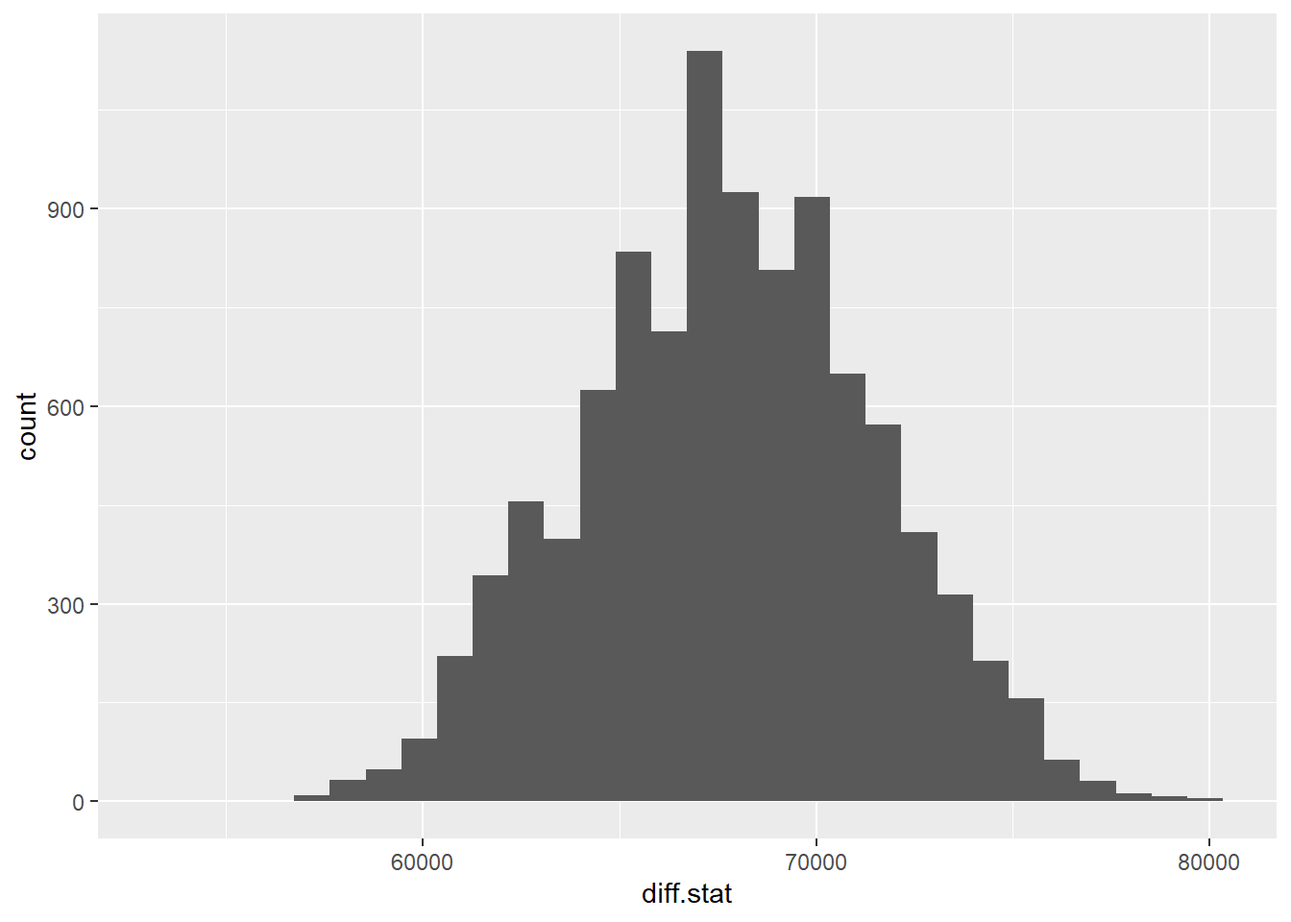
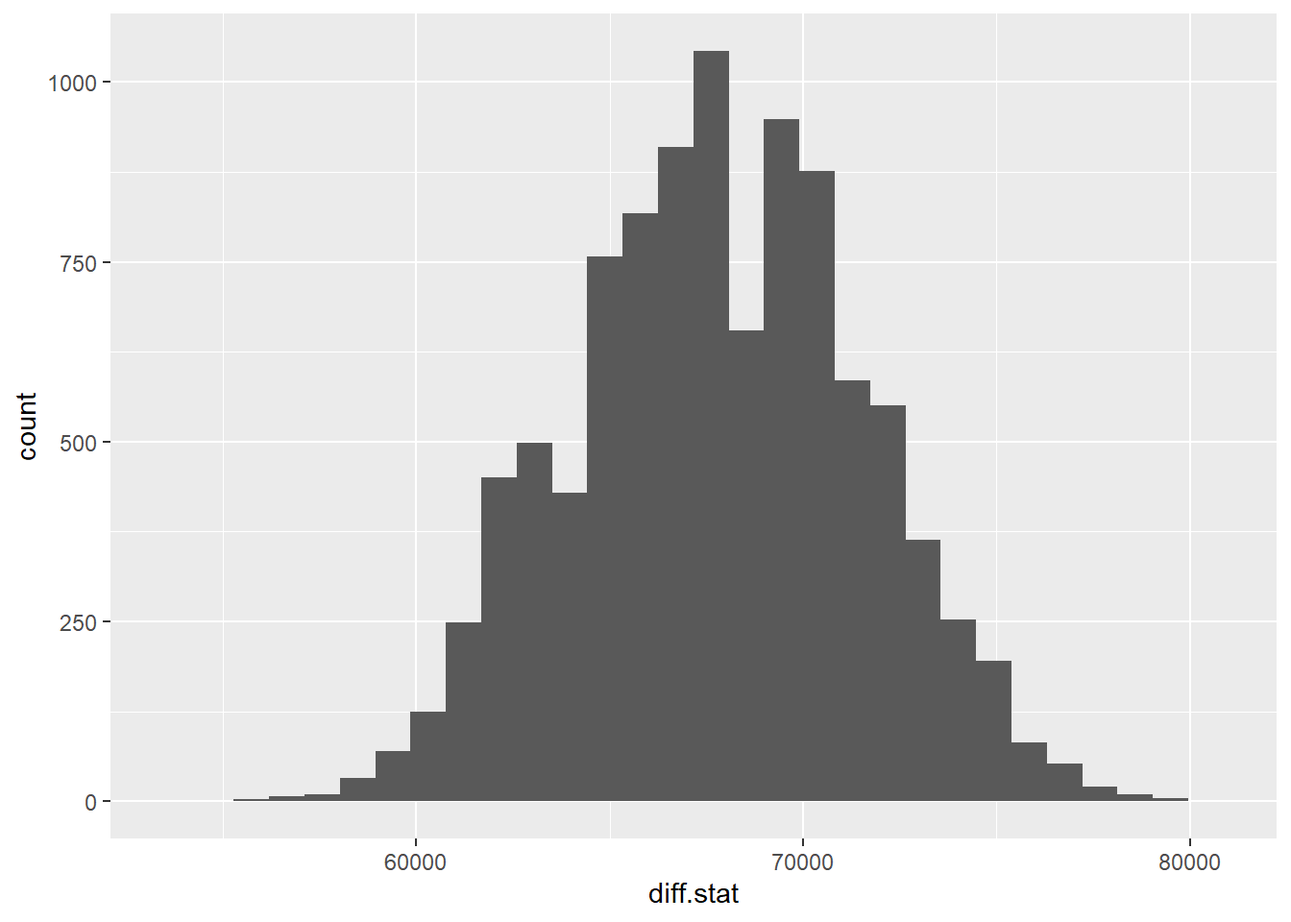
Bootstrap python update 2

diff --git a/docs/introduction.html b/docs/introduction.html
@@ -264,12 +264,12 @@ code span.wa { color: #60a0b0; font-weight: bold; font-style: italic; } /* Warni
 <span id="cb5-8"><a href="introduction.html#cb5-8" tabindex="-1"></a>  boot.med[i]<span class="ot">=</span><span class="fu">median</span>(boot.samp)</span>
 <span id="cb5-9"><a href="introduction.html#cb5-9" tabindex="-1"></a>}</span>
 <span id="cb5-10"><a href="introduction.html#cb5-10" tabindex="-1"></a><span class="fu">sd</span>(boot.med)</span>
-<span id="cb5-11"><a href="introduction.html#cb5-11" tabindex="-1"></a><span class="do">## [1] 1.327341</span></span>
+<span id="cb5-11"><a href="introduction.html#cb5-11" tabindex="-1"></a><span class="do">## [1] 1.355891</span></span>
 <span id="cb5-12"><a href="introduction.html#cb5-12" tabindex="-1"></a>act.med</span>
 <span id="cb5-13"><a href="introduction.html#cb5-13" tabindex="-1"></a><span class="do">## [1] 335.17</span></span>
 <span id="cb5-14"><a href="introduction.html#cb5-14" tabindex="-1"></a><span class="fu">quantile</span>(boot.med,<span class="at">probs =</span> <span class="fu">c</span>(<span class="fl">0.025</span>,<span class="fl">0.975</span>))</span>
-<span id="cb5-15"><a href="introduction.html#cb5-15" tabindex="-1"></a><span class="do">##   2.5%  97.5% </span></span>
-<span id="cb5-16"><a href="introduction.html#cb5-16" tabindex="-1"></a><span class="do">## 332.75 337.79</span></span>
+<span id="cb5-15"><a href="introduction.html#cb5-15" tabindex="-1"></a><span class="do">##    2.5%   97.5% </span></span>
+<span id="cb5-16"><a href="introduction.html#cb5-16" tabindex="-1"></a><span class="do">## 332.675 337.800</span></span>
 <span id="cb5-17"><a href="introduction.html#cb5-17" tabindex="-1"></a><span class="fu">ggplot</span>(<span class="at">data=</span><span class="fu">data.frame</span>(boot.med),<span class="fu">aes</span>(<span class="at">x=</span>boot.med))<span class="sc">+</span><span class="fu">geom_histogram</span>() <span class="sc">+</span> <span class="fu">labs</span>(<span class="at">x=</span><span class="st">&quot;Bootstrap Sample&quot;</span>,<span class="at">y=</span><span class="st">&quot;Frequency&quot;</span>)</span>
 <span id="cb5-18"><a href="introduction.html#cb5-18" tabindex="-1"></a><span class="do">## `stat_bin()` using `bins = 30`. Pick better value with `binwidth`.</span></span></code></pre></div>
 <p><img src="bookdownproj_files/figure-html/bootstrap%20confidence%20interval-3.png" width="672" />
@@ -291,18 +291,19 @@ The second example is exploring if the median price of homes in Iowa with air co
 <pre><code>## `stat_bin()` using `bins = 30`. Pick better value with `binwidth`.</code></pre>
 <p><img src="bookdownproj_files/figure-html/bootstrap%20hypothesis%20test-1.png" width="672" /></p>
 <div class="sourceCode" id="cb8"><pre class="sourceCode r"><code class="sourceCode r"><span id="cb8-1"><a href="introduction.html#cb8-1" tabindex="-1"></a><span class="fu">quantile</span>(diff.stat,<span class="at">probs =</span> <span class="fu">c</span>(<span class="fl">0.005</span>,<span class="fl">0.995</span>))</span></code></pre></div>
-<pre><code>##     0.5%    99.5% 
-## 58744.78 76840.30</code></pre>
+<pre><code>##    0.5%   99.5% 
+## 58875.0 76865.5</code></pre>
 <p>Since the confidence interval does NOT include 0, we would conclude that the medians appear to be significantly different.</p>
 <div id="python-for-bootstrapping" class="section level3 hasAnchor" number="2.1.1">
 <h3><span class="header-section-number">2.1.1</span> Python for Bootstrapping<a href="introduction.html#python-for-bootstrapping" class="anchor-section" aria-label="Anchor link to header"></a></h3>
 <div class="sourceCode" id="cb10"><pre class="sourceCode python"><code class="sourceCode python"><span id="cb10-1"><a href="introduction.html#cb10-1" tabindex="-1"></a><span class="im">from</span> matplotlib <span class="im">import</span> pyplot <span class="im">as</span> plt</span>
 <span id="cb10-2"><a href="introduction.html#cb10-2" tabindex="-1"></a><span class="im">import</span> numpy <span class="im">as</span> np</span>
-<span id="cb10-3"><a href="introduction.html#cb10-3" tabindex="-1"></a><span class="im">import</span> statistics</span>
-<span id="cb10-4"><a href="introduction.html#cb10-4" tabindex="-1"></a><span class="im">from</span> numpy <span class="im">import</span> random</span>
-<span id="cb10-5"><a href="introduction.html#cb10-5" tabindex="-1"></a></span>
-<span id="cb10-6"><a href="introduction.html#cb10-6" tabindex="-1"></a>co2_py <span class="op">=</span> r.co2</span>
-<span id="cb10-7"><a href="introduction.html#cb10-7" tabindex="-1"></a>plt.hist(co2_py)</span></code></pre></div>
+<span id="cb10-3"><a href="introduction.html#cb10-3" tabindex="-1"></a><span class="im">import</span> pandas <span class="im">as</span> pd</span>
+<span id="cb10-4"><a href="introduction.html#cb10-4" tabindex="-1"></a><span class="im">import</span> statistics</span>
+<span id="cb10-5"><a href="introduction.html#cb10-5" tabindex="-1"></a><span class="im">from</span> numpy <span class="im">import</span> random</span>
+<span id="cb10-6"><a href="introduction.html#cb10-6" tabindex="-1"></a></span>
+<span id="cb10-7"><a href="introduction.html#cb10-7" tabindex="-1"></a>co2_py <span class="op">=</span> r.co2</span>
+<span id="cb10-8"><a href="introduction.html#cb10-8" tabindex="-1"></a>plt.hist(co2_py)</span></code></pre></div>
 <pre><code>## (array([50., 73., 58., 48., 44., 42., 37., 51., 40., 25.]), array([313.18 , 318.546, 323.912, 329.278, 334.644, 340.01 , 345.376,
 ##        350.742, 356.108, 361.474, 366.84 ]), &lt;BarContainer object of 10 artists&gt;)</code></pre>
 <div class="sourceCode" id="cb12"><pre class="sourceCode python"><code class="sourceCode python"><span id="cb12-1"><a href="introduction.html#cb12-1" tabindex="-1"></a>plt.show()</span>
@@ -315,29 +316,55 @@ The second example is exploring if the median price of homes in Iowa with air co
 <pre><code>## 335.17</code></pre>
 <div class="sourceCode" id="cb15"><pre class="sourceCode python"><code class="sourceCode python"><span id="cb15-1"><a href="introduction.html#cb15-1" tabindex="-1"></a>n <span class="op">=</span> <span class="bu">len</span>(co2_py)</span>
 <span id="cb15-2"><a href="introduction.html#cb15-2" tabindex="-1"></a>temp <span class="op">=</span> []</span>
-<span id="cb15-3"><a href="introduction.html#cb15-3" tabindex="-1"></a><span class="cf">for</span> i <span class="kw">in</span> <span class="bu">range</span>(<span class="dv">1000</span>):</span>
+<span id="cb15-3"><a href="introduction.html#cb15-3" tabindex="-1"></a><span class="cf">for</span> i <span class="kw">in</span> <span class="bu">range</span>(<span class="dv">10000</span>):</span>
 <span id="cb15-4"><a href="introduction.html#cb15-4" tabindex="-1"></a>  temp.append(statistics.median(random.choice(co2_py,n)))</span>
 <span id="cb15-5"><a href="introduction.html#cb15-5" tabindex="-1"></a><span class="co">#temp =statistics.median(random.choice(co2_py,n))</span></span>
 <span id="cb15-6"><a href="introduction.html#cb15-6" tabindex="-1"></a></span>
 <span id="cb15-7"><a href="introduction.html#cb15-7" tabindex="-1"></a><span class="bu">print</span>(statistics.stdev(temp))</span></code></pre></div>
-<pre><code>## 1.3351758780776406</code></pre>
+<pre><code>## 1.3630486884365889</code></pre>
 <div class="sourceCode" id="cb17"><pre class="sourceCode python"><code class="sourceCode python"><span id="cb17-1"><a href="introduction.html#cb17-1" tabindex="-1"></a><span class="bu">print</span>(<span class="st">&quot;Lower 95</span><span class="sc">% c</span><span class="st">onfidence interval for median&quot;</span>,np.quantile(temp,<span class="fl">0.025</span>))</span></code></pre></div>
-<pre><code>## Lower 95% confidence interval for median 332.75</code></pre>
+<pre><code>## Lower 95% confidence interval for median 332.675</code></pre>
 <div class="sourceCode" id="cb19"><pre class="sourceCode python"><code class="sourceCode python"><span id="cb19-1"><a href="introduction.html#cb19-1" tabindex="-1"></a><span class="bu">print</span>(<span class="st">&quot;Upper 95</span><span class="sc">% c</span><span class="st">onfidence interval for median&quot;</span>,np.quantile(temp,<span class="fl">0.975</span>))</span></code></pre></div>
-<pre><code>## Upper 95% confidence interval for median 337.79</code></pre>
+<pre><code>## Upper 95% confidence interval for median 337.815</code></pre>
+<div class="sourceCode" id="cb21"><pre class="sourceCode python"><code class="sourceCode python"><span id="cb21-1"><a href="introduction.html#cb21-1" tabindex="-1"></a>plt.hist(temp)</span></code></pre></div>
+<pre><code>## (array([2.000e+00, 4.900e+01, 6.030e+02, 1.719e+03, 2.841e+03, 2.393e+03,
+##        1.653e+03, 6.830e+02, 5.100e+01, 6.000e+00]), array([330.14 , 331.186, 332.232, 333.278, 334.324, 335.37 , 336.416,
+##        337.462, 338.508, 339.554, 340.6  ]), &lt;BarContainer object of 10 artists&gt;)</code></pre>
+<div class="sourceCode" id="cb23"><pre class="sourceCode python"><code class="sourceCode python"><span id="cb23-1"><a href="introduction.html#cb23-1" tabindex="-1"></a>plt.show()</span></code></pre></div>
+<p><img src="bookdownproj_files/figure-html/unnamed-chunk-1-2.png" width="672" /></p>
+<div class="sourceCode" id="cb24"><pre class="sourceCode python"><code class="sourceCode python"><span id="cb24-1"><a href="introduction.html#cb24-1" tabindex="-1"></a>ames_py<span class="op">=</span>r.ames</span>
+<span id="cb24-2"><a href="introduction.html#cb24-2" tabindex="-1"></a><span class="bu">type</span>(ames_py)</span></code></pre></div>
+<pre><code>## &lt;class &#39;pandas.core.frame.DataFrame&#39;&gt;</code></pre>
+<div class="sourceCode" id="cb26"><pre class="sourceCode python"><code class="sourceCode python"><span id="cb26-1"><a href="introduction.html#cb26-1" tabindex="-1"></a>yes<span class="op">=</span>ames_py[ames_py[<span class="st">&quot;Central_Air&quot;</span>]<span class="op">==</span><span class="st">&quot;Y&quot;</span>]</span>
+<span id="cb26-2"><a href="introduction.html#cb26-2" tabindex="-1"></a>no<span class="op">=</span>ames_py[ames_py[<span class="st">&quot;Central_Air&quot;</span>]<span class="op">==</span><span class="st">&quot;N&quot;</span>]</span>
+<span id="cb26-3"><a href="introduction.html#cb26-3" tabindex="-1"></a></span>
+<span id="cb26-4"><a href="introduction.html#cb26-4" tabindex="-1"></a>diff_sale<span class="op">=</span>[]</span>
+<span id="cb26-5"><a href="introduction.html#cb26-5" tabindex="-1"></a>n<span class="op">=</span><span class="dv">2930</span></span>
+<span id="cb26-6"><a href="introduction.html#cb26-6" tabindex="-1"></a><span class="cf">for</span> i <span class="kw">in</span> <span class="bu">range</span>(<span class="dv">10000</span>):</span>
+<span id="cb26-7"><a href="introduction.html#cb26-7" tabindex="-1"></a>  yes_boot<span class="op">=</span>statistics.median(random.choice(yes[<span class="st">&quot;Sale_Price&quot;</span>],n))</span>
+<span id="cb26-8"><a href="introduction.html#cb26-8" tabindex="-1"></a>  no_boot<span class="op">=</span>statistics.median(random.choice(no[<span class="st">&quot;Sale_Price&quot;</span>],n))</span>
+<span id="cb26-9"><a href="introduction.html#cb26-9" tabindex="-1"></a>  diff_temp<span class="op">=</span>yes_boot<span class="op">-</span>no_boot</span>
+<span id="cb26-10"><a href="introduction.html#cb26-10" tabindex="-1"></a>  diff_sale.append(diff_temp)</span>
+<span id="cb26-11"><a href="introduction.html#cb26-11" tabindex="-1"></a>  </span>
+<span id="cb26-12"><a href="introduction.html#cb26-12" tabindex="-1"></a>plt.hist(diff_sale)</span></code></pre></div>
+<pre><code>## (array([   9.,   70.,  277., 1446., 2555., 2297., 2337.,  736.,  250.,
+##          23.]), array([60500., 61900., 63300., 64700., 66100., 67500., 68900., 70300.,
+##        71700., 73100., 74500.]), &lt;BarContainer object of 10 artists&gt;)</code></pre>
+<div class="sourceCode" id="cb28"><pre class="sourceCode python"><code class="sourceCode python"><span id="cb28-1"><a href="introduction.html#cb28-1" tabindex="-1"></a>plt.show()</span></code></pre></div>
+<p><img src="bookdownproj_files/figure-html/unnamed-chunk-1-3.png" width="672" /></p>
 </div>
 </div>
 <div id="adjusting-p-values" class="section level2 hasAnchor" number="2.2">
 <h2><span class="header-section-number">2.2</span> Adjusting p-values<a href="introduction.html#adjusting-p-values" class="anchor-section" aria-label="Anchor link to header"></a></h2>
 <p>The package p.adjust will do the Bonferroni adjustment, Benjamini &amp; Hochberg and many other adjustments for p-values when you are conducting a lot of tests! All you need to do is send it a vector of p-values and it will return the adjusted p-values!</p>
-<div class="sourceCode" id="cb21"><pre class="sourceCode r"><code class="sourceCode r"><span id="cb21-1"><a href="introduction.html#cb21-1" tabindex="-1"></a></span>
-<span id="cb21-2"><a href="introduction.html#cb21-2" tabindex="-1"></a>temp<span class="ot">=</span><span class="fu">c</span>(<span class="fl">0.001</span>,<span class="fl">0.03</span>,<span class="fl">0.2</span>,<span class="fl">0.4</span>)</span>
-<span id="cb21-3"><a href="introduction.html#cb21-3" tabindex="-1"></a><span class="co">#Bonferoni</span></span>
-<span id="cb21-4"><a href="introduction.html#cb21-4" tabindex="-1"></a><span class="fu">p.adjust</span>(temp,<span class="at">method=</span><span class="st">&quot;bonferroni&quot;</span>)</span>
-<span id="cb21-5"><a href="introduction.html#cb21-5" tabindex="-1"></a><span class="do">## [1] 0.004 0.120 0.800 1.000</span></span>
-<span id="cb21-6"><a href="introduction.html#cb21-6" tabindex="-1"></a><span class="co">#Benjamini &amp; Hochberg</span></span>
-<span id="cb21-7"><a href="introduction.html#cb21-7" tabindex="-1"></a><span class="fu">p.adjust</span>(temp,<span class="at">method=</span><span class="st">&quot;BH&quot;</span>)</span>
-<span id="cb21-8"><a href="introduction.html#cb21-8" tabindex="-1"></a><span class="do">## [1] 0.0040000 0.0600000 0.2666667 0.4000000</span></span></code></pre></div>
+<div class="sourceCode" id="cb29"><pre class="sourceCode r"><code class="sourceCode r"><span id="cb29-1"><a href="introduction.html#cb29-1" tabindex="-1"></a></span>
+<span id="cb29-2"><a href="introduction.html#cb29-2" tabindex="-1"></a>temp<span class="ot">=</span><span class="fu">c</span>(<span class="fl">0.001</span>,<span class="fl">0.03</span>,<span class="fl">0.2</span>,<span class="fl">0.4</span>)</span>
+<span id="cb29-3"><a href="introduction.html#cb29-3" tabindex="-1"></a><span class="co">#Bonferoni</span></span>
+<span id="cb29-4"><a href="introduction.html#cb29-4" tabindex="-1"></a><span class="fu">p.adjust</span>(temp,<span class="at">method=</span><span class="st">&quot;bonferroni&quot;</span>)</span>
+<span id="cb29-5"><a href="introduction.html#cb29-5" tabindex="-1"></a><span class="do">## [1] 0.004 0.120 0.800 1.000</span></span>
+<span id="cb29-6"><a href="introduction.html#cb29-6" tabindex="-1"></a><span class="co">#Benjamini &amp; Hochberg</span></span>
+<span id="cb29-7"><a href="introduction.html#cb29-7" tabindex="-1"></a><span class="fu">p.adjust</span>(temp,<span class="at">method=</span><span class="st">&quot;BH&quot;</span>)</span>
+<span id="cb29-8"><a href="introduction.html#cb29-8" tabindex="-1"></a><span class="do">## [1] 0.0040000 0.0600000 0.2666667 0.4000000</span></span></code></pre></div>
 </div>
 <div id="transaction-data" class="section level2 hasAnchor" number="2.3">
 <h2><span class="header-section-number">2.3</span> Transaction data<a href="introduction.html#transaction-data" class="anchor-section" aria-label="Anchor link to header"></a></h2>
@@ -463,13 +490,13 @@ NA
 </tbody>
 </table>
 <p>Notice that there are four transactions for Person 1, four transactions for Person 2 (including a missing value) and three transactions for Person 3. We will need to “roll” these up into one observation per person.</p>
-<div class="sourceCode" id="cb22"><pre class="sourceCode r"><code class="sourceCode r"><span id="cb22-1"><a href="introduction.html#cb22-1" tabindex="-1"></a>new.check <span class="ot">=</span> check <span class="sc">%&gt;%</span> <span class="fu">group_by</span>(ID) <span class="sc">%&gt;%</span></span>
-<span id="cb22-2"><a href="introduction.html#cb22-2" tabindex="-1"></a>  <span class="fu">summarise</span>(<span class="at">mean.check=</span><span class="fu">mean</span>(Checking,<span class="at">na.rm=</span>T),<span class="at">std.check=</span><span class="fu">sd</span>(Checking,<span class="at">na.rm=</span>T))</span></code></pre></div>
+<div class="sourceCode" id="cb30"><pre class="sourceCode r"><code class="sourceCode r"><span id="cb30-1"><a href="introduction.html#cb30-1" tabindex="-1"></a>new.check <span class="ot">=</span> check <span class="sc">%&gt;%</span> <span class="fu">group_by</span>(ID) <span class="sc">%&gt;%</span></span>
+<span id="cb30-2"><a href="introduction.html#cb30-2" tabindex="-1"></a>  <span class="fu">summarise</span>(<span class="at">mean.check=</span><span class="fu">mean</span>(Checking,<span class="at">na.rm=</span>T),<span class="at">std.check=</span><span class="fu">sd</span>(Checking,<span class="at">na.rm=</span>T))</span></code></pre></div>
 <p>It is HIGHLY recommended that you ALWAYS create a flag for missing values (do this BEFORE rolling up). The following code creates the flag for the missing values and then rolls everything up:</p>
-<div class="sourceCode" id="cb23"><pre class="sourceCode r"><code class="sourceCode r"><span id="cb23-1"><a href="introduction.html#cb23-1" tabindex="-1"></a>check<span class="sc">$</span>flag<span class="ot">=</span><span class="fu">ifelse</span>(<span class="fu">is.na</span>(check<span class="sc">$</span>Checking),<span class="dv">1</span>,<span class="dv">0</span>)</span>
-<span id="cb23-2"><a href="introduction.html#cb23-2" tabindex="-1"></a></span>
-<span id="cb23-3"><a href="introduction.html#cb23-3" tabindex="-1"></a>new.check <span class="ot">=</span> check <span class="sc">%&gt;%</span> <span class="fu">group_by</span>(ID) <span class="sc">%&gt;%</span></span>
-<span id="cb23-4"><a href="introduction.html#cb23-4" tabindex="-1"></a>  <span class="fu">summarise</span>(<span class="at">mean.check=</span><span class="fu">mean</span>(Checking,<span class="at">na.rm=</span>T),<span class="at">std.check=</span><span class="fu">sd</span>(Checking,<span class="at">na.rm=</span>T),<span class="at">na.check=</span><span class="fu">sum</span>(flag))</span></code></pre></div>
+<div class="sourceCode" id="cb31"><pre class="sourceCode r"><code class="sourceCode r"><span id="cb31-1"><a href="introduction.html#cb31-1" tabindex="-1"></a>check<span class="sc">$</span>flag<span class="ot">=</span><span class="fu">ifelse</span>(<span class="fu">is.na</span>(check<span class="sc">$</span>Checking),<span class="dv">1</span>,<span class="dv">0</span>)</span>
+<span id="cb31-2"><a href="introduction.html#cb31-2" tabindex="-1"></a></span>
+<span id="cb31-3"><a href="introduction.html#cb31-3" tabindex="-1"></a>new.check <span class="ot">=</span> check <span class="sc">%&gt;%</span> <span class="fu">group_by</span>(ID) <span class="sc">%&gt;%</span></span>
+<span id="cb31-4"><a href="introduction.html#cb31-4" tabindex="-1"></a>  <span class="fu">summarise</span>(<span class="at">mean.check=</span><span class="fu">mean</span>(Checking,<span class="at">na.rm=</span>T),<span class="at">std.check=</span><span class="fu">sd</span>(Checking,<span class="at">na.rm=</span>T),<span class="at">na.check=</span><span class="fu">sum</span>(flag))</span></code></pre></div>
 <table class=" lightable-paper lightable-striped" style="font-family: &quot;Arial Narrow&quot;, arial, helvetica, sans-serif; width: auto !important; margin-left: auto; margin-right: auto;">
 <caption>
 <span id="tab:unnamed-chunk-3">Table 2.2: </span>Rolled up
@@ -666,8 +693,8 @@ bread
 </tbody>
 </table>
 <p>As you can see, there is a separate line for each item. If we want to analyze this data set with the package ‘arules’, we need the data to be wide (not long). In other words, one line per ID. We can create the wide data set in R by using the following line (and then “inspect” it or view it).</p>
-<div class="sourceCode" id="cb24"><pre class="sourceCode r"><code class="sourceCode r"><span id="cb24-1"><a href="introduction.html#cb24-1" tabindex="-1"></a>trans.dat <span class="ot">&lt;-</span> <span class="fu">as</span>(<span class="fu">split</span>(temp.dat<span class="sc">$</span>Grocery, temp.dat<span class="sc">$</span>ID), <span class="st">&quot;transactions&quot;</span>)</span>
-<span id="cb24-2"><a href="introduction.html#cb24-2" tabindex="-1"></a><span class="fu">inspect</span>(trans.dat)</span></code></pre></div>
+<div class="sourceCode" id="cb32"><pre class="sourceCode r"><code class="sourceCode r"><span id="cb32-1"><a href="introduction.html#cb32-1" tabindex="-1"></a>trans.dat <span class="ot">&lt;-</span> <span class="fu">as</span>(<span class="fu">split</span>(temp.dat<span class="sc">$</span>Grocery, temp.dat<span class="sc">$</span>ID), <span class="st">&quot;transactions&quot;</span>)</span>
+<span id="cb32-2"><a href="introduction.html#cb32-2" tabindex="-1"></a><span class="fu">inspect</span>(trans.dat)</span></code></pre></div>
 <pre><code>##      items                             transactionID
 ## [1]  {bread, egg, oat packet, papaya}  1            
 ## [2]  {bread, milk, oat packet, papaya} 2            
@@ -681,14 +708,14 @@ bread
 ## [10] {bread, milk, papaya}             10           
 ## [11] {egg, milk}                       11</code></pre>
 <p>The following code runs the association analysis and stores the results in the object rules. Once you have this stored object, you can view it and partition it in different ways..</p>
-<div class="sourceCode" id="cb26"><pre class="sourceCode r"><code class="sourceCode r"><span id="cb26-1"><a href="introduction.html#cb26-1" tabindex="-1"></a>trans.dat<span class="sc">@</span>itemInfo<span class="sc">$</span>labels</span></code></pre></div>
+<div class="sourceCode" id="cb34"><pre class="sourceCode r"><code class="sourceCode r"><span id="cb34-1"><a href="introduction.html#cb34-1" tabindex="-1"></a>trans.dat<span class="sc">@</span>itemInfo<span class="sc">$</span>labels</span></code></pre></div>
 <pre><code>## [1] &quot;bread&quot;      &quot;butter&quot;     &quot;egg&quot;        &quot;milk&quot;       &quot;oat packet&quot;
 ## [6] &quot;papaya&quot;</code></pre>
-<div class="sourceCode" id="cb28"><pre class="sourceCode r"><code class="sourceCode r"><span id="cb28-1"><a href="introduction.html#cb28-1" tabindex="-1"></a><span class="co"># Create an item frequency plot for the top 3 items</span></span>
-<span id="cb28-2"><a href="introduction.html#cb28-2" tabindex="-1"></a><span class="fu">itemFrequencyPlot</span>(trans.dat,<span class="at">topN=</span><span class="dv">3</span>,<span class="at">type=</span><span class="st">&quot;absolute&quot;</span>)</span></code></pre></div>
+<div class="sourceCode" id="cb36"><pre class="sourceCode r"><code class="sourceCode r"><span id="cb36-1"><a href="introduction.html#cb36-1" tabindex="-1"></a><span class="co"># Create an item frequency plot for the top 3 items</span></span>
+<span id="cb36-2"><a href="introduction.html#cb36-2" tabindex="-1"></a><span class="fu">itemFrequencyPlot</span>(trans.dat,<span class="at">topN=</span><span class="dv">3</span>,<span class="at">type=</span><span class="st">&quot;absolute&quot;</span>)</span></code></pre></div>
 <p><img src="bookdownproj_files/figure-html/association2-1.png" width="672" /></p>
-<div class="sourceCode" id="cb29"><pre class="sourceCode r"><code class="sourceCode r"><span id="cb29-1"><a href="introduction.html#cb29-1" tabindex="-1"></a><span class="co"># Get the rules</span></span>
-<span id="cb29-2"><a href="introduction.html#cb29-2" tabindex="-1"></a>rules <span class="ot">&lt;-</span> <span class="fu">apriori</span>(trans.dat, <span class="at">parameter =</span> <span class="fu">list</span>(<span class="at">supp =</span> <span class="fl">0.1</span>, <span class="at">conf =</span> <span class="fl">0.001</span>, <span class="at">target=</span><span class="st">&quot;rules&quot;</span>))</span></code></pre></div>
+<div class="sourceCode" id="cb37"><pre class="sourceCode r"><code class="sourceCode r"><span id="cb37-1"><a href="introduction.html#cb37-1" tabindex="-1"></a><span class="co"># Get the rules</span></span>
+<span id="cb37-2"><a href="introduction.html#cb37-2" tabindex="-1"></a>rules <span class="ot">&lt;-</span> <span class="fu">apriori</span>(trans.dat, <span class="at">parameter =</span> <span class="fu">list</span>(<span class="at">supp =</span> <span class="fl">0.1</span>, <span class="at">conf =</span> <span class="fl">0.001</span>, <span class="at">target=</span><span class="st">&quot;rules&quot;</span>))</span></code></pre></div>
 <pre><code>## Apriori
 ## 
 ## Parameter specification:
@@ -710,9 +737,9 @@ bread
 ## checking subsets of size 1 2 3 done [0.00s].
 ## writing ... [32 rule(s)] done [0.00s].
 ## creating S4 object  ... done [0.00s].</code></pre>
-<div class="sourceCode" id="cb31"><pre class="sourceCode r"><code class="sourceCode r"><span id="cb31-1"><a href="introduction.html#cb31-1" tabindex="-1"></a>rules<span class="ot">&lt;-</span><span class="fu">sort</span>(rules, <span class="at">by=</span><span class="st">&quot;confidence&quot;</span>, <span class="at">decreasing=</span><span class="cn">TRUE</span>)</span>
-<span id="cb31-2"><a href="introduction.html#cb31-2" tabindex="-1"></a></span>
-<span id="cb31-3"><a href="introduction.html#cb31-3" tabindex="-1"></a><span class="fu">inspect</span>(rules[<span class="dv">1</span><span class="sc">:</span><span class="dv">4</span>])</span></code></pre></div>
+<div class="sourceCode" id="cb39"><pre class="sourceCode r"><code class="sourceCode r"><span id="cb39-1"><a href="introduction.html#cb39-1" tabindex="-1"></a>rules<span class="ot">&lt;-</span><span class="fu">sort</span>(rules, <span class="at">by=</span><span class="st">&quot;confidence&quot;</span>, <span class="at">decreasing=</span><span class="cn">TRUE</span>)</span>
+<span id="cb39-2"><a href="introduction.html#cb39-2" tabindex="-1"></a></span>
+<span id="cb39-3"><a href="introduction.html#cb39-3" tabindex="-1"></a><span class="fu">inspect</span>(rules[<span class="dv">1</span><span class="sc">:</span><span class="dv">4</span>])</span></code></pre></div>
 <pre><code>##     lhs                    rhs      support   confidence coverage  lift    
 ## [1] {butter}            =&gt; {bread}  0.2727273 1.0000000  0.2727273 1.571429
 ## [2] {bread, oat packet} =&gt; {papaya} 0.1818182 1.0000000  0.1818182 1.833333
@@ -723,7 +750,7 @@ bread
 ## [2] 2    
 ## [3] 3    
 ## [4] 4</code></pre>
-<div class="sourceCode" id="cb33"><pre class="sourceCode r"><code class="sourceCode r"><span id="cb33-1"><a href="introduction.html#cb33-1" tabindex="-1"></a>oat.rules <span class="ot">=</span> <span class="fu">apriori</span>(trans.dat, <span class="at">parameter =</span> <span class="fu">list</span>(<span class="at">supp=</span><span class="fl">0.001</span>, <span class="at">conf=</span><span class="fl">0.8</span>),<span class="at">appearance =</span> <span class="fu">list</span>(<span class="at">default=</span><span class="st">&quot;lhs&quot;</span>,<span class="at">rhs=</span><span class="st">&quot;oat packet&quot;</span>))</span></code></pre></div>
+<div class="sourceCode" id="cb41"><pre class="sourceCode r"><code class="sourceCode r"><span id="cb41-1"><a href="introduction.html#cb41-1" tabindex="-1"></a>oat.rules <span class="ot">=</span> <span class="fu">apriori</span>(trans.dat, <span class="at">parameter =</span> <span class="fu">list</span>(<span class="at">supp=</span><span class="fl">0.001</span>, <span class="at">conf=</span><span class="fl">0.8</span>),<span class="at">appearance =</span> <span class="fu">list</span>(<span class="at">default=</span><span class="st">&quot;lhs&quot;</span>,<span class="at">rhs=</span><span class="st">&quot;oat packet&quot;</span>))</span></code></pre></div>
 <pre><code>## Apriori
 ## 
 ## Parameter specification:
@@ -745,7 +772,7 @@ bread
 ## checking subsets of size 1 2 3 4 done [0.00s].
 ## writing ... [2 rule(s)] done [0.00s].
 ## creating S4 object  ... done [0.00s].</code></pre>
-<div class="sourceCode" id="cb35"><pre class="sourceCode r"><code class="sourceCode r"><span id="cb35-1"><a href="introduction.html#cb35-1" tabindex="-1"></a>oat.rules2 <span class="ot">=</span> <span class="fu">apriori</span>(trans.dat, <span class="at">parameter =</span> <span class="fu">list</span>(<span class="at">supp=</span><span class="fl">0.001</span>, <span class="at">conf=</span><span class="fl">0.8</span>),<span class="at">appearance =</span> <span class="fu">list</span>(<span class="at">lhs=</span><span class="st">&quot;oat packet&quot;</span>, <span class="at">default=</span><span class="st">&quot;rhs&quot;</span>))</span></code></pre></div>
+<div class="sourceCode" id="cb43"><pre class="sourceCode r"><code class="sourceCode r"><span id="cb43-1"><a href="introduction.html#cb43-1" tabindex="-1"></a>oat.rules2 <span class="ot">=</span> <span class="fu">apriori</span>(trans.dat, <span class="at">parameter =</span> <span class="fu">list</span>(<span class="at">supp=</span><span class="fl">0.001</span>, <span class="at">conf=</span><span class="fl">0.8</span>),<span class="at">appearance =</span> <span class="fu">list</span>(<span class="at">lhs=</span><span class="st">&quot;oat packet&quot;</span>, <span class="at">default=</span><span class="st">&quot;rhs&quot;</span>))</span></code></pre></div>
 <pre><code>## Apriori
 ## 
 ## Parameter specification:
@@ -767,13 +794,13 @@ bread
 ## checking subsets of size 1 2 done [0.00s].
 ## writing ... [0 rule(s)] done [0.00s].
 ## creating S4 object  ... done [0.00s].</code></pre>
-<div class="sourceCode" id="cb37"><pre class="sourceCode r"><code class="sourceCode r"><span id="cb37-1"><a href="introduction.html#cb37-1" tabindex="-1"></a><span class="fu">plot</span>(rules)</span></code></pre></div>
+<div class="sourceCode" id="cb45"><pre class="sourceCode r"><code class="sourceCode r"><span id="cb45-1"><a href="introduction.html#cb45-1" tabindex="-1"></a><span class="fu">plot</span>(rules)</span></code></pre></div>
 <pre><code>## To reduce overplotting, jitter is added! Use jitter = 0 to prevent jitter.</code></pre>
 <p><img src="bookdownproj_files/figure-html/association2-2.png" width="672" /></p>
-<div class="sourceCode" id="cb39"><pre class="sourceCode r"><code class="sourceCode r"><span id="cb39-1"><a href="introduction.html#cb39-1" tabindex="-1"></a>top10rules <span class="ot">=</span> <span class="fu">head</span>(rules, <span class="at">n =</span> <span class="dv">10</span>, <span class="at">by =</span> <span class="st">&quot;confidence&quot;</span>)</span>
-<span id="cb39-2"><a href="introduction.html#cb39-2" tabindex="-1"></a><span class="fu">plot</span>(top10rules, <span class="at">method =</span> <span class="st">&quot;graph&quot;</span>,  <span class="at">engine =</span> <span class="st">&quot;htmlwidget&quot;</span>)</span></code></pre></div>
-<div class="visNetwork html-widget html-fill-item-overflow-hidden html-fill-item" id="htmlwidget-da826d24bee0824e4db4" style="width:672px;height:480px;"></div>
-<script type="application/json" data-for="htmlwidget-da826d24bee0824e4db4">{"x":{"nodes":{"id":[1,2,3,4,5,6,7,8,9,10,11,12,13,14,15,16],"label":["bread","butter","egg","milk","oat packet","papaya","rule 1","rule 2","rule 3","rule 4","rule 5","rule 6","rule 7","rule 8","rule 9","rule 10"],"group":[1,1,1,1,1,1,2,2,2,2,2,2,2,2,2,2],"value":[1,1,1,1,1,1,20.8,1,20.8,40.6,1,1,1,100,20.8,40.6],"color":["#CBD2FC","#CBD2FC","#CBD2FC","#CBD2FC","#CBD2FC","#CBD2FC","#EE6666","#EE1B1B","#EE9999","#EECBCB","#EECBCB","#EECBCB","#EEB1B1","#EED4D4","#EEDCDC","#EECBCB"],"title":["bread","butter","egg","milk","oat packet","papaya","<B>[1]<\/B><BR><B>{butter}<\/B><BR>&nbsp;&nbsp; => <B>{bread}<\/B><BR><BR>support = 0.273<BR>confidence = 1<BR>coverage = 0.273<BR>lift = 1.57<BR>count = 3<BR>order = 2<BR>id = 1","<B>[2]<\/B><BR><B>{bread,<BR>&nbsp;&nbsp;oat packet}<\/B><BR>&nbsp;&nbsp; => <B>{papaya}<\/B><BR><BR>support = 0.182<BR>confidence = 1<BR>coverage = 0.182<BR>lift = 1.83<BR>count = 2<BR>order = 3<BR>id = 2","<B>[3]<\/B><BR><B>{oat packet}<\/B><BR>&nbsp;&nbsp; => <B>{papaya}<\/B><BR><BR>support = 0.273<BR>confidence = 0.75<BR>coverage = 0.364<BR>lift = 1.38<BR>count = 3<BR>order = 2<BR>id = 3","<B>[4]<\/B><BR><B>{papaya}<\/B><BR>&nbsp;&nbsp; => <B>{bread}<\/B><BR><BR>support = 0.364<BR>confidence = 0.667<BR>coverage = 0.545<BR>lift = 1.05<BR>count = 4<BR>order = 2<BR>id = 4","<B>[5]<\/B><BR><B>{oat packet,<BR>&nbsp;&nbsp;papaya}<\/B><BR>&nbsp;&nbsp; => <B>{bread}<\/B><BR><BR>support = 0.182<BR>confidence = 0.667<BR>coverage = 0.273<BR>lift = 1.05<BR>count = 2<BR>order = 3<BR>id = 5","<B>[6]<\/B><BR><B>{milk,<BR>&nbsp;&nbsp;papaya}<\/B><BR>&nbsp;&nbsp; => <B>{bread}<\/B><BR><BR>support = 0.182<BR>confidence = 0.667<BR>coverage = 0.273<BR>lift = 1.05<BR>count = 2<BR>order = 3<BR>id = 6","<B>[7]<\/B><BR><B>{bread,<BR>&nbsp;&nbsp;milk}<\/B><BR>&nbsp;&nbsp; => <B>{papaya}<\/B><BR><BR>support = 0.182<BR>confidence = 0.667<BR>coverage = 0.273<BR>lift = 1.22<BR>count = 2<BR>order = 3<BR>id = 7","<B>[8]<\/B><BR><B>{}<\/B><BR>&nbsp;&nbsp; => <B>{bread}<\/B><BR><BR>support = 0.636<BR>confidence = 0.636<BR>coverage = 1<BR>lift = 1<BR>count = 7<BR>order = 1<BR>id = 8","<B>[9]<\/B><BR><B>{egg}<\/B><BR>&nbsp;&nbsp; => <B>{bread}<\/B><BR><BR>support = 0.273<BR>confidence = 0.6<BR>coverage = 0.455<BR>lift = 0.943<BR>count = 3<BR>order = 2<BR>id = 9","<B>[10]<\/B><BR><B>{bread}<\/B><BR>&nbsp;&nbsp; => <B>{papaya}<\/B><BR><BR>support = 0.364<BR>confidence = 0.571<BR>coverage = 0.636<BR>lift = 1.05<BR>count = 4<BR>order = 2<BR>id = 10"],"shape":["box","box","box","box","box","box","circle","circle","circle","circle","circle","circle","circle","circle","circle","circle"],"x":[0.0756754229853067,-1,0.0243312589612872,1,-0.17717739601388,0.240477621304422,-0.542298764457738,-0.00767195720569114,0.160021597442664,-0.125107129454558,-0.184363193017098,0.575000815511772,0.602460548639572,0.339040705181898,0.0297545282451042,0.307440413642744],"y":[-0.0627878934125082,0.404643634395936,1,-0.364575069578913,-0.905811720410451,-0.524752746313351,0.210627632179079,-0.586373684653148,-1,-0.270428546243636,-0.524486736587657,-0.390304009971814,-0.22231579726086,0.312775495318878,0.553569653961739,-0.198382871107416]},"edges":{"from":[2,1,5,5,6,5,6,4,6,1,4,3,1,7,8,9,10,11,12,13,14,15,16],"to":[7,8,8,9,10,11,11,12,12,13,13,15,16,1,6,6,1,1,1,6,1,1,6],"arrows":["to","to","to","to","to","to","to","to","to","to","to","to","to","to","to","to","to","to","to","to","to","to","to"]},"nodesToDataframe":true,"edgesToDataframe":true,"options":{"width":"100%","height":"100%","nodes":{"shape":"dot","physics":false},"manipulation":{"enabled":false},"edges":{"smooth":false},"physics":{"stabilization":false},"interaction":{"hover":true,"zoomSpeed":1}},"groups":["1","2"],"width":null,"height":null,"idselection":{"enabled":true,"style":"width: 150px; height: 26px","useLabels":true,"main":"Select by id"},"byselection":{"enabled":false,"style":"width: 150px; height: 26px","multiple":false,"hideColor":"rgba(200,200,200,0.5)","highlight":false},"main":null,"submain":null,"footer":null,"background":"rgba(0, 0, 0, 0)","igraphlayout":{"type":"square"},"tooltipStay":300,"tooltipStyle":"position: fixed;visibility:hidden;padding: 5px;white-space: nowrap;font-family: verdana;font-size:14px;font-color:#000000;background-color: #f5f4ed;-moz-border-radius: 3px;-webkit-border-radius: 3px;border-radius: 3px;border: 1px solid #808074;box-shadow: 3px 3px 10px rgba(0, 0, 0, 0.2);","highlight":{"enabled":true,"hoverNearest":true,"degree":1,"algorithm":"all","hideColor":"rgba(200,200,200,0.5)","labelOnly":true},"collapse":{"enabled":false,"fit":false,"resetHighlight":true,"clusterOptions":null,"keepCoord":true,"labelSuffix":"(cluster)"}},"evals":[],"jsHooks":[]}</script>
+<div class="sourceCode" id="cb47"><pre class="sourceCode r"><code class="sourceCode r"><span id="cb47-1"><a href="introduction.html#cb47-1" tabindex="-1"></a>top10rules <span class="ot">=</span> <span class="fu">head</span>(rules, <span class="at">n =</span> <span class="dv">10</span>, <span class="at">by =</span> <span class="st">&quot;confidence&quot;</span>)</span>
+<span id="cb47-2"><a href="introduction.html#cb47-2" tabindex="-1"></a><span class="fu">plot</span>(top10rules, <span class="at">method =</span> <span class="st">&quot;graph&quot;</span>,  <span class="at">engine =</span> <span class="st">&quot;htmlwidget&quot;</span>)</span></code></pre></div>
+<div class="visNetwork html-widget html-fill-item-overflow-hidden html-fill-item" id="htmlwidget-1e19017cbf4a64143e09" style="width:672px;height:480px;"></div>
+<script type="application/json" data-for="htmlwidget-1e19017cbf4a64143e09">{"x":{"nodes":{"id":[1,2,3,4,5,6,7,8,9,10,11,12,13,14,15,16],"label":["bread","butter","egg","milk","oat packet","papaya","rule 1","rule 2","rule 3","rule 4","rule 5","rule 6","rule 7","rule 8","rule 9","rule 10"],"group":[1,1,1,1,1,1,2,2,2,2,2,2,2,2,2,2],"value":[1,1,1,1,1,1,20.8,1,20.8,40.6,1,1,1,100,20.8,40.6],"color":["#CBD2FC","#CBD2FC","#CBD2FC","#CBD2FC","#CBD2FC","#CBD2FC","#EE6666","#EE1B1B","#EE9999","#EECBCB","#EECBCB","#EECBCB","#EEB1B1","#EED4D4","#EEDCDC","#EECBCB"],"title":["bread","butter","egg","milk","oat packet","papaya","<B>[1]<\/B><BR><B>{butter}<\/B><BR>&nbsp;&nbsp; => <B>{bread}<\/B><BR><BR>support = 0.273<BR>confidence = 1<BR>coverage = 0.273<BR>lift = 1.57<BR>count = 3<BR>order = 2<BR>id = 1","<B>[2]<\/B><BR><B>{bread,<BR>&nbsp;&nbsp;oat packet}<\/B><BR>&nbsp;&nbsp; => <B>{papaya}<\/B><BR><BR>support = 0.182<BR>confidence = 1<BR>coverage = 0.182<BR>lift = 1.83<BR>count = 2<BR>order = 3<BR>id = 2","<B>[3]<\/B><BR><B>{oat packet}<\/B><BR>&nbsp;&nbsp; => <B>{papaya}<\/B><BR><BR>support = 0.273<BR>confidence = 0.75<BR>coverage = 0.364<BR>lift = 1.38<BR>count = 3<BR>order = 2<BR>id = 3","<B>[4]<\/B><BR><B>{papaya}<\/B><BR>&nbsp;&nbsp; => <B>{bread}<\/B><BR><BR>support = 0.364<BR>confidence = 0.667<BR>coverage = 0.545<BR>lift = 1.05<BR>count = 4<BR>order = 2<BR>id = 4","<B>[5]<\/B><BR><B>{oat packet,<BR>&nbsp;&nbsp;papaya}<\/B><BR>&nbsp;&nbsp; => <B>{bread}<\/B><BR><BR>support = 0.182<BR>confidence = 0.667<BR>coverage = 0.273<BR>lift = 1.05<BR>count = 2<BR>order = 3<BR>id = 5","<B>[6]<\/B><BR><B>{milk,<BR>&nbsp;&nbsp;papaya}<\/B><BR>&nbsp;&nbsp; => <B>{bread}<\/B><BR><BR>support = 0.182<BR>confidence = 0.667<BR>coverage = 0.273<BR>lift = 1.05<BR>count = 2<BR>order = 3<BR>id = 6","<B>[7]<\/B><BR><B>{bread,<BR>&nbsp;&nbsp;milk}<\/B><BR>&nbsp;&nbsp; => <B>{papaya}<\/B><BR><BR>support = 0.182<BR>confidence = 0.667<BR>coverage = 0.273<BR>lift = 1.22<BR>count = 2<BR>order = 3<BR>id = 7","<B>[8]<\/B><BR><B>{}<\/B><BR>&nbsp;&nbsp; => <B>{bread}<\/B><BR><BR>support = 0.636<BR>confidence = 0.636<BR>coverage = 1<BR>lift = 1<BR>count = 7<BR>order = 1<BR>id = 8","<B>[9]<\/B><BR><B>{egg}<\/B><BR>&nbsp;&nbsp; => <B>{bread}<\/B><BR><BR>support = 0.273<BR>confidence = 0.6<BR>coverage = 0.455<BR>lift = 0.943<BR>count = 3<BR>order = 2<BR>id = 9","<B>[10]<\/B><BR><B>{bread}<\/B><BR>&nbsp;&nbsp; => <B>{papaya}<\/B><BR><BR>support = 0.364<BR>confidence = 0.571<BR>coverage = 0.636<BR>lift = 1.05<BR>count = 4<BR>order = 2<BR>id = 10"],"shape":["box","box","box","box","box","box","circle","circle","circle","circle","circle","circle","circle","circle","circle","circle"],"x":[-0.12215288132185,1,0.624535671923957,-1,-0.478983896524439,-0.553657224460214,0.526836076043988,-0.404023377205401,-0.797928939389297,-0.394385432236001,-0.227583835656663,-0.716454415063849,-0.610608296928104,-0.0742147687109009,0.322050564792028,-0.114426072712004],"y":[-0.0102233928152671,0.236798387812424,-1,-0.359640570169029,1,0.341123203050913,0.128118616137994,0.570736161282923,0.876096367519689,0.00128700381413482,0.615591517208096,-0.0342249567979971,-0.20961178905037,-0.566303082694188,-0.570910830269871,0.322160458000946]},"edges":{"from":[2,1,5,5,6,5,6,4,6,1,4,3,1,7,8,9,10,11,12,13,14,15,16],"to":[7,8,8,9,10,11,11,12,12,13,13,15,16,1,6,6,1,1,1,6,1,1,6],"arrows":["to","to","to","to","to","to","to","to","to","to","to","to","to","to","to","to","to","to","to","to","to","to","to"]},"nodesToDataframe":true,"edgesToDataframe":true,"options":{"width":"100%","height":"100%","nodes":{"shape":"dot","physics":false},"manipulation":{"enabled":false},"edges":{"smooth":false},"physics":{"stabilization":false},"interaction":{"hover":true,"zoomSpeed":1}},"groups":["1","2"],"width":null,"height":null,"idselection":{"enabled":true,"style":"width: 150px; height: 26px","useLabels":true,"main":"Select by id"},"byselection":{"enabled":false,"style":"width: 150px; height: 26px","multiple":false,"hideColor":"rgba(200,200,200,0.5)","highlight":false},"main":null,"submain":null,"footer":null,"background":"rgba(0, 0, 0, 0)","igraphlayout":{"type":"square"},"tooltipStay":300,"tooltipStyle":"position: fixed;visibility:hidden;padding: 5px;white-space: nowrap;font-family: verdana;font-size:14px;font-color:#000000;background-color: #f5f4ed;-moz-border-radius: 3px;-webkit-border-radius: 3px;border-radius: 3px;border: 1px solid #808074;box-shadow: 3px 3px 10px rgba(0, 0, 0, 0.2);","highlight":{"enabled":true,"hoverNearest":true,"degree":1,"algorithm":"all","hideColor":"rgba(200,200,200,0.5)","labelOnly":true},"collapse":{"enabled":false,"fit":false,"resetHighlight":true,"clusterOptions":null,"keepCoord":true,"labelSuffix":"(cluster)"}},"evals":[],"jsHooks":[]}</script>
 
 </div>
 </div>
